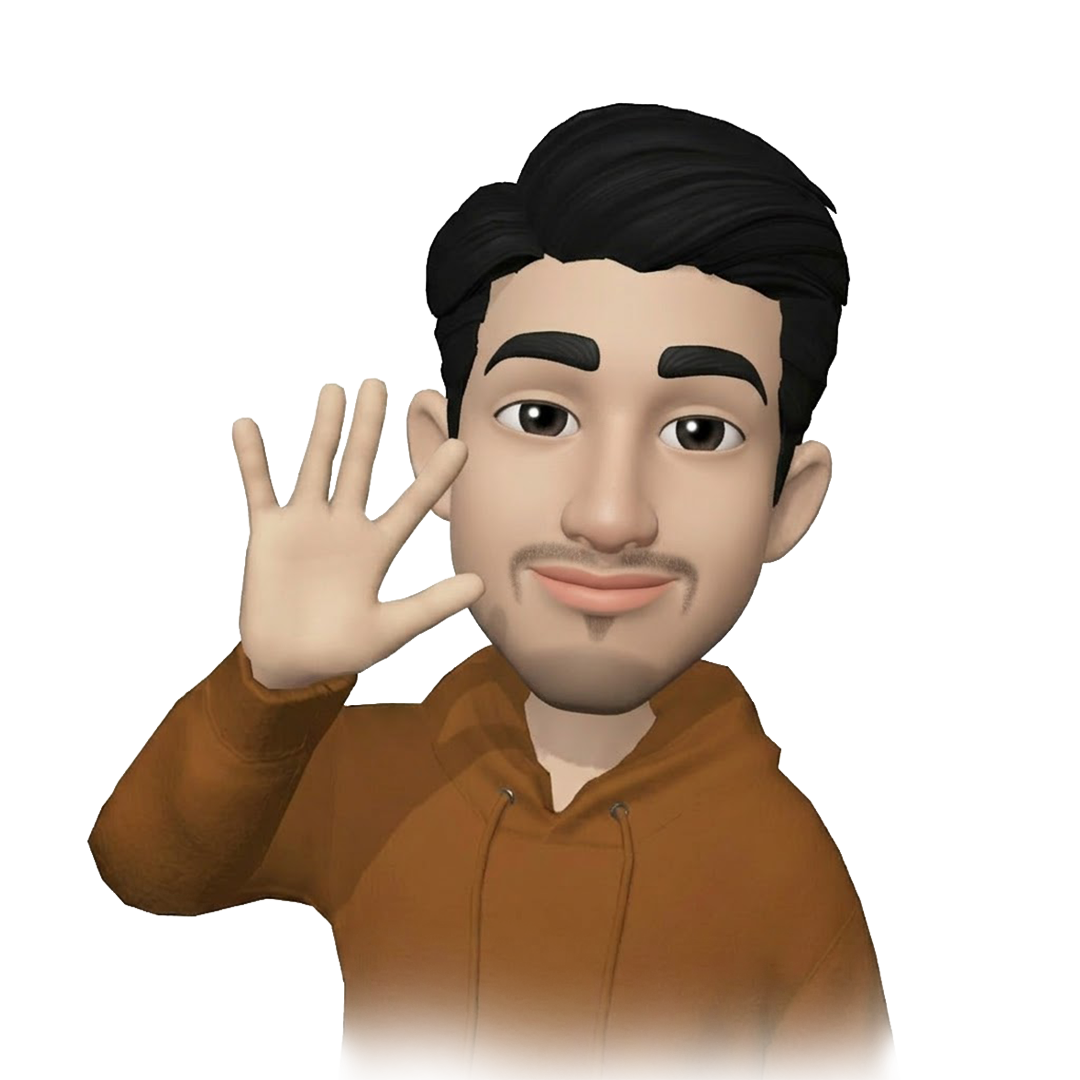
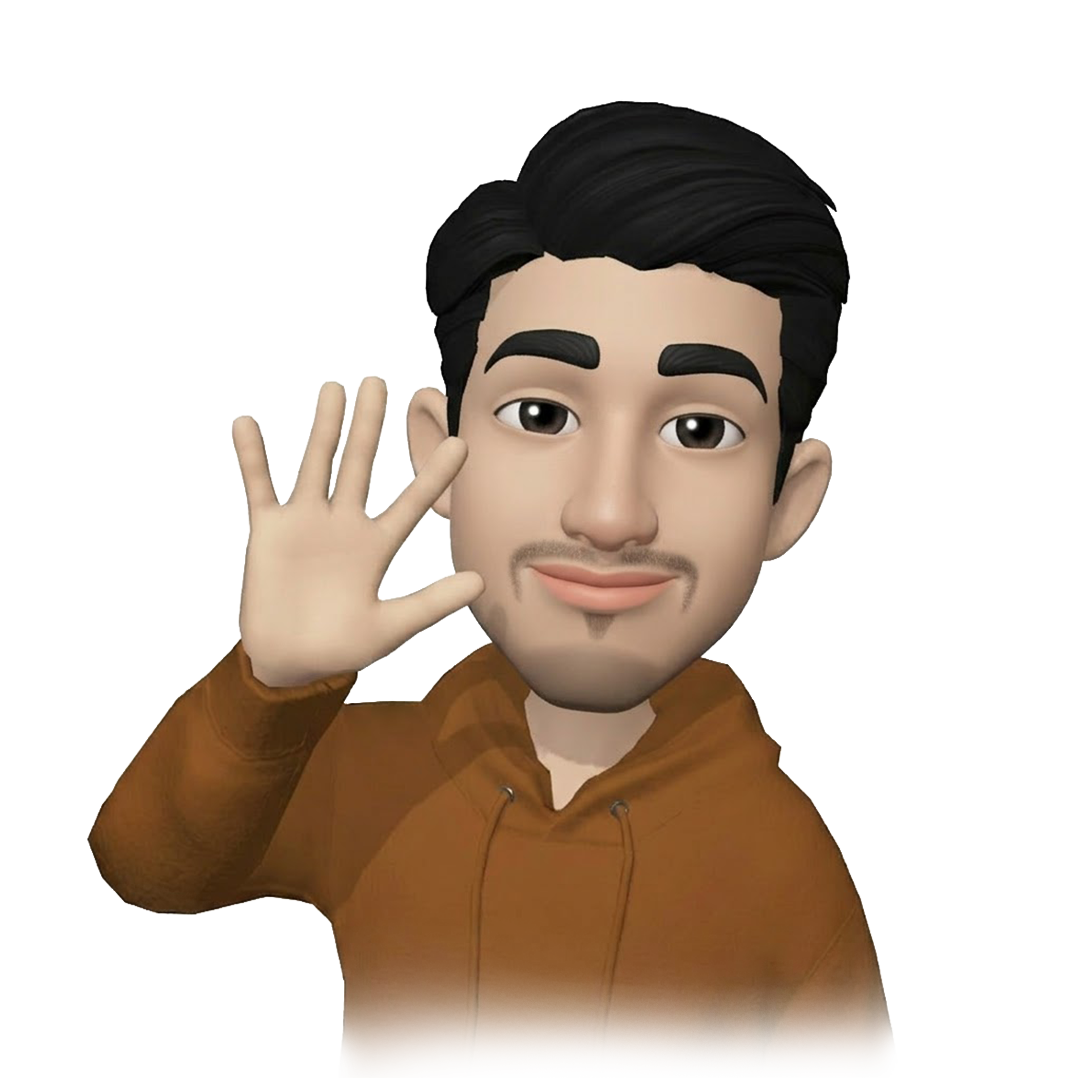
more-responsiveness

diff --git a/frontend/CSS/style.css b/frontend/CSS/style.css
@@ -493,6 +493,7 @@ hr{
         flex-direction: column-reverse;
         box-sizing: border-box;
         padding: 0 20px;
+        gap: 50px;
     }
     .home h1{
         font-size: 40px;
@@ -501,6 +502,13 @@ hr{
         font-size: 20px;
         align-self: center;
         justify-self: center;
+    }
+    .home-content-left{
+        display: flex;
+        flex-direction: column;
+        align-items: center;
+        justify-content: center;
+        gap: 15px;
     }
     .home-content-right img{
         width: 250px;